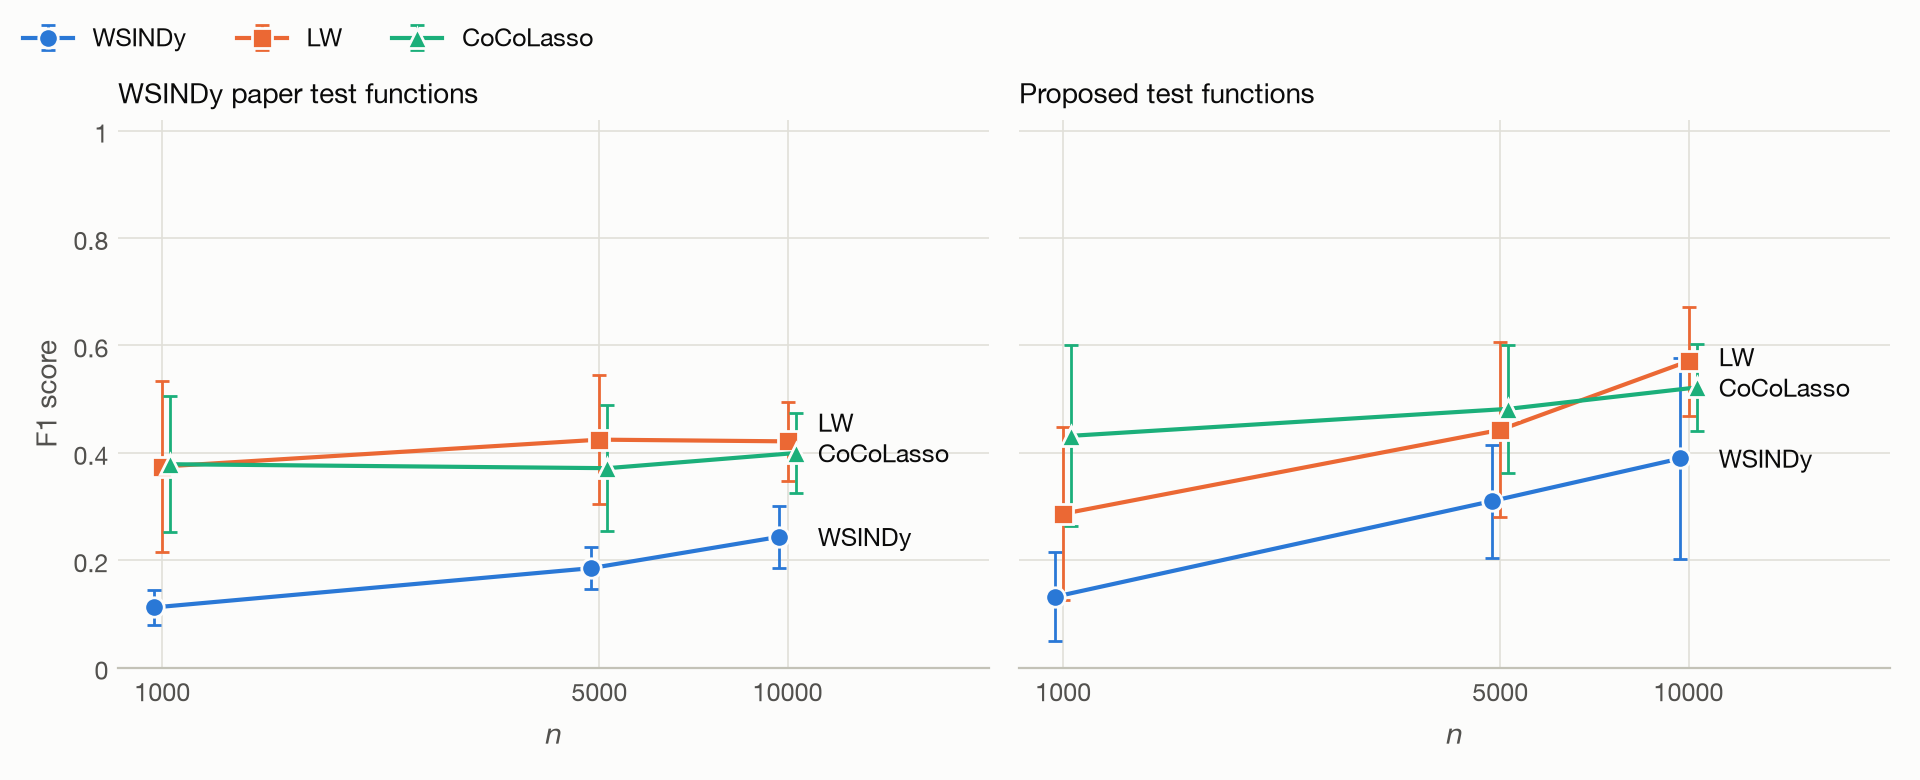
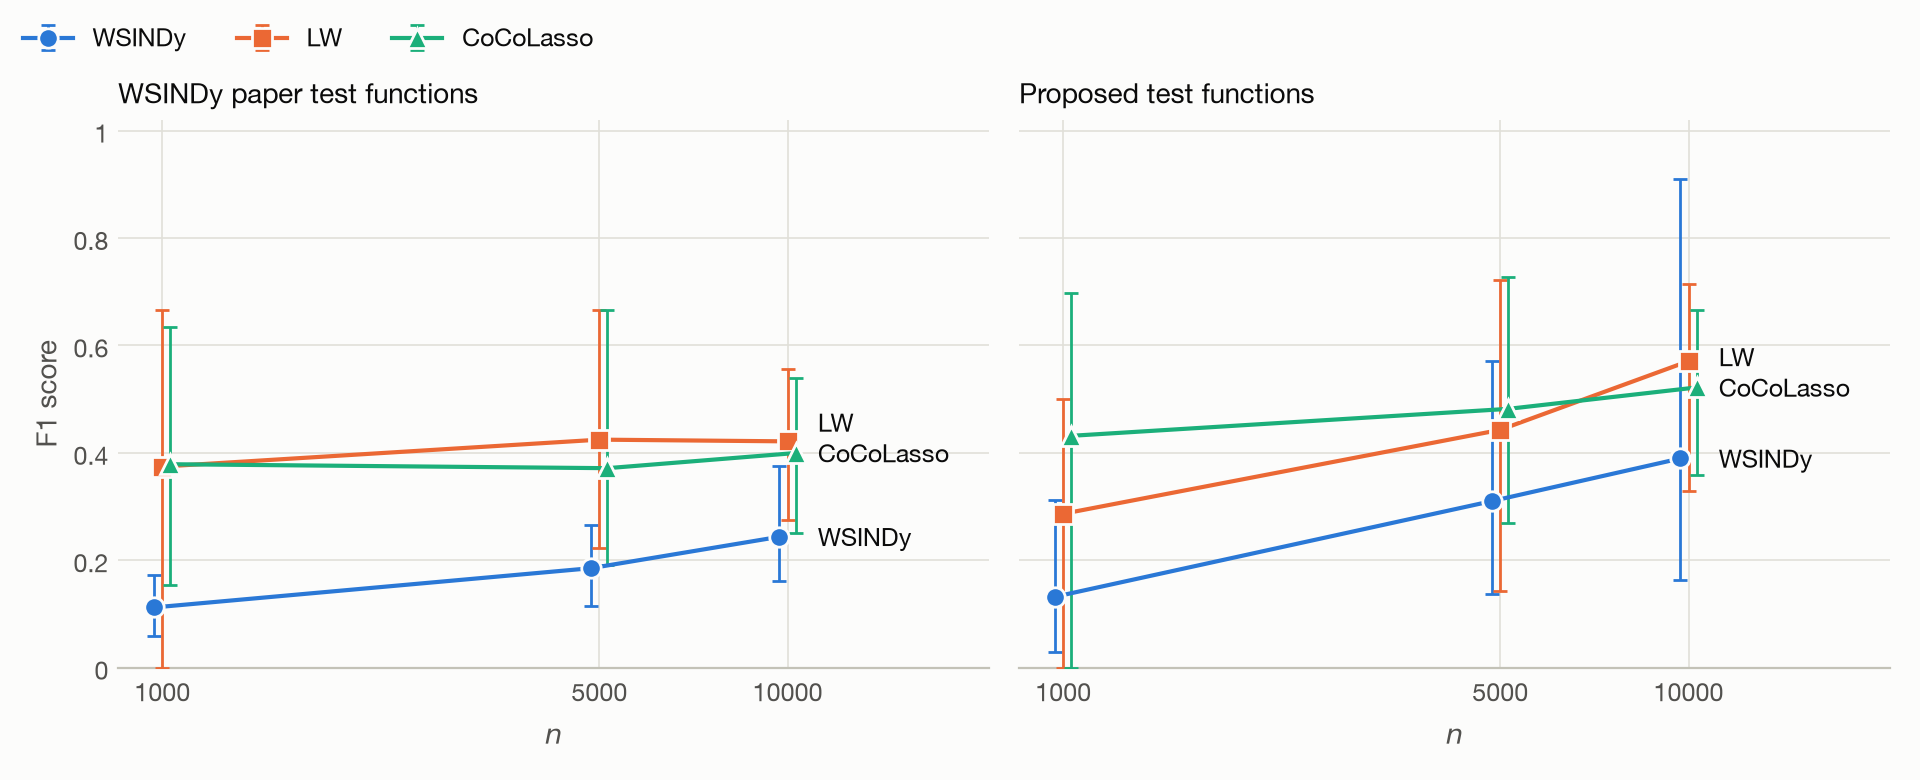
implemented the pilot estimator

diff --git a/report.py b/report.py
@@ -26,8 +26,8 @@ def metrics(name):
 
 
 def log_axis(values):
-    # A log axis around every mean +- sd, with its ticks
-    bars = np.array([[v.mean(axis=1) + s*v.std(axis=1, ddof=1) for s in (-1, 1)] for family in values.values() for v in family.values()])
+    # A log axis around every mean and its 2.5% and 97.5% quantiles, with its ticks
+    bars = np.array([np.quantile(v, (.025, .975), axis=1) for family in values.values() for v in family.values()])
     means = np.array([v.mean(axis=1) for family in values.values() for v in family.values()])
     low, high = min(bars[bars > 0].min(), means.min())*.85, bars.max()*1.2
     ticks = [t for t in (.1, .2, .5, 1, 2, 5, 10, 20, 50, 100, 200, 500, 1000, 2000, 5000) if low <= t <= high]
@@ -35,7 +35,7 @@ def log_axis(values):
 
 
 def plot(values, ylabel, path, yticks, ylim, log=False, reference=None):
-    # Mean +- sd per method against n, on a log n axis, one panel per family of test functions
+    # Mean with its 2.5% and 97.5% quantiles per method against n, on a log n axis, one panel per family of test functions
     plt.rcParams.update({"font.family": ["Helvetica Neue", "Arial", "DejaVu Sans"], "mathtext.fontset": "dejavusans"})
     fig, axes = plt.subplots(1, len(FAMILIES), figsize=(9.6, 3.9), dpi=200, facecolor=SURFACE, sharey=True)
     for ax, (family, title) in zip(axes, FAMILIES.items()):
@@ -46,7 +46,8 @@ def plot(values, ylabel, path, yticks, ylim, log=False, reference=None):
         # The x positions are moved slightly apart so that the error bars stay readable
         for (method, (label, color, marker)), shift in zip(METHODS.items(), (0.97, 1, 1.03)):
             v = values[family][method]
-            ax.errorbar(np.array(SIZES)*shift, v.mean(axis=1), v.std(axis=1, ddof=1), color=color, marker=marker,
+            mean, (lower, upper) = v.mean(axis=1), np.quantile(v, (.025, .975), axis=1)
+            ax.errorbar(np.array(SIZES)*shift, mean, (mean - lower, upper - mean), color=color, marker=marker,
                         ms=7, lw=1.5, elinewidth=1, capsize=2.5, mec=SURFACE, mew=1, label=label, zorder=3)
         if reference is not None:
             ax.hlines(reference, SIZES[0]*.85, SIZES[-1]*1.05, color=MUTED, lw=.8, zorder=2)
@@ -85,7 +86,7 @@ def table(values):
     rows = [f"| $n$ | Test functions | {' | '.join(head)} |", f"|---|---|{'---|'*len(head)}"]
     for i, n in enumerate(SIZES):
         for family, title in FAMILIES.items():
-            cells = [f"{v[i].mean():.2f} ± {v[i].std(ddof=1):.2f} ({np.median(v[i]):.2f})" for v in (values[family][m] for m in METHODS)]
+            cells = [f"{v.mean():.2f} ({np.quantile(v, .025):.2f}, {np.quantile(v, .975):.2f})" for v in (values[family][m][i] for m in METHODS)]
             rows.append(f"| {n} | {title} | {' | '.join(cells)} |")
     return "\n".join(rows)
 
@@ -185,21 +186,21 @@ LW's $R$ is an oracle value: the median of $\sqrt{{3}}\,\|D\beta_*\|_2$ over 20 
 
 ## 4. $L^2$ error
 
-$\|\hat\beta - \beta_*\|_2$ over all {2*P} coefficients of both equations. The reference line is the value at $\hat\beta = 0$, {zero:.2f}. The vertical axis is logarithmic, bars show ±1 sd across seeds, and points are shifted slightly horizontally to avoid overlap.
+$\|\hat\beta - \beta_*\|_2$ over all {2*P} coefficients of both equations. The reference line is the value at $\hat\beta = 0$, {zero:.2f}. The vertical axis is logarithmic, points show the mean and bars span the 2.5% to 97.5% quantiles across seeds, and points are shifted slightly horizontally to avoid overlap.
 
 ![L2 error](figures/l2_error.png)
 
-Mean ± sd (median) over {seeds} seeds:
+Mean (2.5% quantile, 97.5% quantile) over {seeds} seeds:
 
 {table(l2)}
 
 ## 5. F1 score
 
-With $\hat S = \{{\ell : \hat\beta_\ell \neq 0\}}$ and $S_* = \{{\ell : \beta_{{*\ell}} \neq 0\}}$, $F_1 = 2|\hat S \cap S_*|/(|\hat S| + |S_*|)$ over all {2*P} coefficients of both equations. Bars show ±1 sd across seeds, and points are shifted slightly horizontally to avoid overlap.
+With $\hat S = \{{\ell : \hat\beta_\ell \neq 0\}}$ and $S_* = \{{\ell : \beta_{{*\ell}} \neq 0\}}$, $F_1 = 2|\hat S \cap S_*|/(|\hat S| + |S_*|)$ over all {2*P} coefficients of both equations. Points show the mean and bars span the 2.5% to 97.5% quantiles across seeds, and points are shifted slightly horizontally to avoid overlap.
 
 ![F1 score](figures/f1_score.png)
 
-Mean ± sd (median) over {seeds} seeds:
+Mean (2.5% quantile, 97.5% quantile) over {seeds} seeds:
 
 {table(f1)}
 """, encoding="utf-8")

diff --git a/experiments.py b/experiments.py
@@ -7,6 +7,11 @@ iterations:     Monte Carlo replications; replication i uses seed i
 estimator:      any object with estimate(wf, equation)
 dictionary:     candidate terms per equation, in the order of pde.equations
 test_functions: the test-function family, or a callable that builds it from the data
+pilot:          optional, pilot(data, seed) -> u-hat from pilot.py. The data are split in half: u-hat comes from one half,
+                and replaces U in X_n and Y_n on the other
+m:              with a pilot, the number of new uniform points at which X_n(u-hat), Y_n(u-hat) are summed; None for the
+                size of the half
+use_original_data: with a pilot, sum at the z_i of the half instead of new points
 """
 from functools import partial
 
@@ -14,6 +19,7 @@ import numpy as np
 
 from data_generation import Schrodinger
 from estimators import CoCoLasso, LohWainwright, WSINDy
+from pilot import perturbed_truth
 from weak_form import Equation, TestFunctions, Term, library, spectral_test_functions
 
 # Grid designs, with the settings of nls_debiasing.ipynb: K = 40 x 35 = 1400
@@ -35,6 +41,8 @@ NLS_LW_RADIUS = {1000: 1.63, 5000: 1.03, 10000: 0.91}
 R_WSINDY_PDE = (19*10/256, 25*np.pi/250)
 NLS_WSINDY_PDE = TestFunctions((-5 + R_WSINDY_PDE[0] + np.arange(44)*5*10/256, R_WSINDY_PDE[1] + np.arange(41)*5*np.pi/250), R_WSINDY_PDE, (11, 10))
 NLS_WSINDY_PDE_RADIUS = {1000: 0.79, 5000: 0.47, 10000: 0.43}
+# u-hat = u_* + zeta n^(-1/3) g with zeta = 1, n the size of the pilot half and g a random cosine series of unit RMS
+NLS_PILOT = partial(perturbed_truth, pde=Schrodinger(a=0.5, b=1.0))
 NLS_ESTIMATORS = {
     "mstls": lambda radius: WSINDy("mstls"),
     "lw": lambda radius: LohWainwright(NLS_LAMBDAS, radius, standardize=True),
@@ -71,5 +79,14 @@ EXPERIMENTS = {
             estimator=estimator(NLS_WSINDY_PDE_RADIUS[n]), dictionary=NLS_FULL, test_functions=NLS_WSINDY_PDE,
         )
         for n in NLS_WSINDY_PDE_RADIUS for name, estimator in NLS_ESTIMATORS.items()
+    },
+    # WSINDy with U replaced by the pilot u-hat from the other half: at 500 new points, or at the half's own z_i
+    **{
+        f"nls_random_n1000_mstls_pilot{suffix}": dict(
+            pde=Schrodinger(a=0.5, b=1.0), sampling="random", size=1000, rho=0.1, iterations=100,
+            estimator=WSINDy("mstls"), dictionary=NLS_FULL, test_functions=NLS_WSINDY_PDE,
+            pilot=NLS_PILOT, use_original_data=original,
+        )
+        for suffix, original in (("", False), ("_original", True))
     },
 }

diff --git a/weak_form/weak_form.py b/weak_form/weak_form.py
@@ -1,4 +1,4 @@
-from dataclasses import dataclass
+from dataclasses import dataclass, replace
 from itertools import combinations_with_replacement
 
 import numpy as np
@@ -22,11 +22,23 @@ class TestFunctions:
 
 
 class WeakForm:
-    """X_n(u) and Y_n(u) for one data set and one family of test functions, or a callable that builds it from the data."""
+    """X_n(u) and Y_n(u) for one data set and one family of test functions, or a callable that builds it from the data.
 
-    def __init__(self, data, test_functions):
-        self.data = data
+    By default u = U. A callable u(*z), such as a pilot u-hat, replaces U: at the data's z_i if use_original_data, and
+    otherwise at m new points drawn uniformly on the domain (m = n by default), a fresh Monte Carlo sample. The test
+    functions are built from the data in both cases.
+    """
+
+    def __init__(self, data, test_functions, u=None, m=None, use_original_data=False, seed=None):
         self.phi = test_functions(data) if callable(test_functions) else test_functions
+        if u is not None:
+            if not use_original_data:
+                rng = np.random.default_rng(seed)
+                z = tuple(rng.uniform(lo, hi, data.U[0].size if m is None else m) for lo, hi in data.domain)
+                data = replace(data, coords=z, design="random")
+            # u carries no observation noise: Sigma_W is 0 on a grid and the Monte Carlo covariance at random points
+            data = replace(data, U=u(*data.points), u_star=None, sigma=np.zeros(len(data.U)))
+        self.data = data
         self._bases = {}
 
     def integrate(self, F, order):

diff --git a/pilot.py b/pilot.py
@@ -1,0 +1,27 @@
+"""Pilot estimates u-hat of u_*. Each one is pilot(data, seed) -> u-hat, a callable u-hat(*z) of the shape of u_*(*z).
+
+main.run splits the data first and passes only the pilot half here, so u-hat and beta-hat come from disjoint samples.
+"""
+import numpy as np
+
+
+def perturbed_truth(data, pde, zeta=1.0, gamma=1/3, modes=8, seed=None):
+    """u-hat_c = u_*c + zeta n^(-gamma) g_c, with n the size of the pilot sample, as in nls_debiasing.ipynb.
+
+    g_c = sum_k a_ck prod_a cos(pi k_a (z_a - lo_a)/L_a) over k in {0, ..., modes}^d, with a_ck ~ N(0, 1) scaled so
+    that g_c^2 has mean 1 over the domain. The notebook adds +-1 at each z_i instead, which is not a function of z.
+    """
+    rng = np.random.default_rng(seed)
+    d, k = len(pde.domain), np.arange(modes + 1)
+    a = rng.standard_normal((len(data.U),) + (modes + 1,)*d)
+    # On [0, 1], cos(pi k s) has mean square 1 at k = 0 and 1/2 otherwise, and the products are orthogonal
+    w = np.prod(np.meshgrid(*[np.where(k == 0, 1., .5)]*d, indexing="ij"), axis=0)
+    a = zeta*data.U[0].size**(-gamma)*a/np.sqrt(np.sum(a**2*w, axis=tuple(range(1, d + 1)), keepdims=True))
+
+    def uhat(*z):
+        index = list(range(d + 1, d + 1 + np.ndim(z[0])))
+        factors = [x for i, (zi, (lo, hi)) in enumerate(zip(z, pde.domain))
+                   for x in (np.cos(np.pi*np.multiply.outer(k, (zi - lo)/(hi - lo))), [1 + i, *index])]
+        return pde.solution(*z) + np.einsum(a, list(range(d + 1)), *factors, [0, *index], optimize=True)
+
+    return uhat

diff --git a/main.py b/main.py
@@ -8,11 +8,17 @@ from experiments import EXPERIMENTS
 from weak_form import WeakForm
 
 
-def run(pde, sampling, size, rho, iterations, estimator, dictionary, test_functions):
+def run(pde, sampling, size, rho, iterations, estimator, dictionary, test_functions, pilot=None, m=None, use_original_data=False):
     # beta-hat per equation, each of shape (iterations, P)
     betas = [[] for _ in dictionary]
     for seed in range(iterations):
-        wf = WeakForm(getattr(pde, sampling)(size, rho, seed), test_functions)
+        data = getattr(pde, sampling)(size, rho, seed)
+        if pilot is None:
+            wf = WeakForm(data, test_functions)
+        else:
+            # Split first, so that u-hat comes from one half and beta-hat from the other; u-hat then replaces U
+            pilot_data, data = data.split()
+            wf = WeakForm(data, test_functions, pilot(pilot_data, seed=(seed, 1)), m, use_original_data, seed=(seed, 2))
         for q, equation in enumerate(dictionary):
             betas[q].append(estimator.estimate(wf, equation))
     return [np.array(b) for b in betas]

diff --git a/results.md b/results.md
@@ -68,34 +68,34 @@ LW's $R$ is an oracle value: the median of $\sqrt{3}\,\|D\beta_*\|_2$ over 20 se
 
 ## 4. $L^2$ error
 
-$\|\hat\beta - \beta_*\|_2$ over all 380 coefficients of both equations. The reference line is the value at $\hat\beta = 0$, 2.12. The vertical axis is logarithmic, bars show ±1 sd across seeds, and points are shifted slightly horizontally to avoid overlap.
+$\|\hat\beta - \beta_*\|_2$ over all 380 coefficients of both equations. The reference line is the value at $\hat\beta = 0$, 2.12. The vertical axis is logarithmic, points show the mean and bars span the 2.5% to 97.5% quantiles across seeds, and points are shifted slightly horizontally to avoid overlap.
 
 ![L2 error](figures/l2_error.png)
 
-Mean ± sd (median) over 100 seeds:
+Mean (2.5% quantile, 97.5% quantile) over 100 seeds:
 
 | $n$ | Test functions | WSINDy | LW | CoCoLasso |
 |---|---|---|---|---|
-| 1000 | WSINDy paper | 19.22 ± 7.78 (17.48) | 1.97 ± 0.26 (1.93) | 1.97 ± 0.31 (1.91) |
-| 1000 | Proposed | 10.32 ± 4.66 (9.76) | 2.02 ± 0.32 (1.98) | 1.85 ± 0.30 (1.84) |
-| 5000 | WSINDy paper | 9.81 ± 2.71 (9.16) | 1.78 ± 0.26 (1.76) | 1.74 ± 0.28 (1.75) |
-| 5000 | Proposed | 6.49 ± 2.96 (6.18) | 1.62 ± 0.32 (1.61) | 1.44 ± 0.37 (1.41) |
-| 10000 | WSINDy paper | 7.50 ± 1.98 (7.23) | 1.54 ± 0.20 (1.57) | 1.44 ± 0.23 (1.45) |
-| 10000 | Proposed | 4.99 ± 2.70 (4.85) | 1.16 ± 0.30 (1.16) | 0.96 ± 0.25 (0.97) |
+| 1000 | WSINDy paper | 19.22 (7.71, 37.50) | 1.97 (1.58, 2.51) | 1.97 (1.55, 2.67) |
+| 1000 | Proposed | 10.32 (3.44, 21.52) | 2.02 (1.60, 2.62) | 1.85 (1.39, 2.75) |
+| 5000 | WSINDy paper | 9.81 (6.39, 15.96) | 1.78 (1.31, 2.25) | 1.74 (1.26, 2.40) |
+| 5000 | Proposed | 6.49 (1.90, 12.26) | 1.62 (0.99, 2.14) | 1.44 (0.94, 2.25) |
+| 10000 | WSINDy paper | 7.50 (4.06, 11.97) | 1.54 (1.13, 1.85) | 1.44 (1.04, 1.79) |
+| 10000 | Proposed | 4.99 (0.75, 10.57) | 1.16 (0.63, 1.70) | 0.96 (0.54, 1.49) |
 
 ## 5. F1 score
 
-With $\hat S = \{\ell : \hat\beta_\ell \neq 0\}$ and $S_* = \{\ell : \beta_{*\ell} \neq 0\}$, $F_1 = 2|\hat S \cap S_*|/(|\hat S| + |S_*|)$ over all 380 coefficients of both equations. Bars show ±1 sd across seeds, and points are shifted slightly horizontally to avoid overlap.
+With $\hat S = \{\ell : \hat\beta_\ell \neq 0\}$ and $S_* = \{\ell : \beta_{*\ell} \neq 0\}$, $F_1 = 2|\hat S \cap S_*|/(|\hat S| + |S_*|)$ over all 380 coefficients of both equations. Points show the mean and bars span the 2.5% to 97.5% quantiles across seeds, and points are shifted slightly horizontally to avoid overlap.
 
 ![F1 score](figures/f1_score.png)
 
-Mean ± sd (median) over 100 seeds:
+Mean (2.5% quantile, 97.5% quantile) over 100 seeds:
 
 | $n$ | Test functions | WSINDy | LW | CoCoLasso |
 |---|---|---|---|---|
-| 1000 | WSINDy paper | 0.11 ± 0.03 (0.11) | 0.37 ± 0.16 (0.40) | 0.38 ± 0.13 (0.40) |
-| 1000 | Proposed | 0.13 ± 0.08 (0.12) | 0.29 ± 0.16 (0.29) | 0.43 ± 0.17 (0.44) |
-| 5000 | WSINDy paper | 0.19 ± 0.04 (0.19) | 0.42 ± 0.12 (0.42) | 0.37 ± 0.12 (0.35) |
-| 5000 | Proposed | 0.31 ± 0.11 (0.29) | 0.44 ± 0.16 (0.44) | 0.48 ± 0.12 (0.50) |
-| 10000 | WSINDy paper | 0.24 ± 0.06 (0.24) | 0.42 ± 0.07 (0.42) | 0.40 ± 0.07 (0.40) |
-| 10000 | Proposed | 0.39 ± 0.19 (0.34) | 0.57 ± 0.10 (0.59) | 0.52 ± 0.08 (0.52) |
+| 1000 | WSINDy paper | 0.11 (0.06, 0.17) | 0.37 (0.00, 0.67) | 0.38 (0.15, 0.63) |
+| 1000 | Proposed | 0.13 (0.03, 0.31) | 0.29 (0.00, 0.50) | 0.43 (0.00, 0.70) |
+| 5000 | WSINDy paper | 0.19 (0.11, 0.26) | 0.42 (0.22, 0.67) | 0.37 (0.19, 0.67) |
+| 5000 | Proposed | 0.31 (0.14, 0.57) | 0.44 (0.14, 0.72) | 0.48 (0.27, 0.73) |
+| 10000 | WSINDy paper | 0.24 (0.16, 0.38) | 0.42 (0.28, 0.56) | 0.40 (0.25, 0.54) |
+| 10000 | Proposed | 0.39 (0.16, 0.91) | 0.57 (0.33, 0.71) | 0.52 (0.36, 0.67) |
